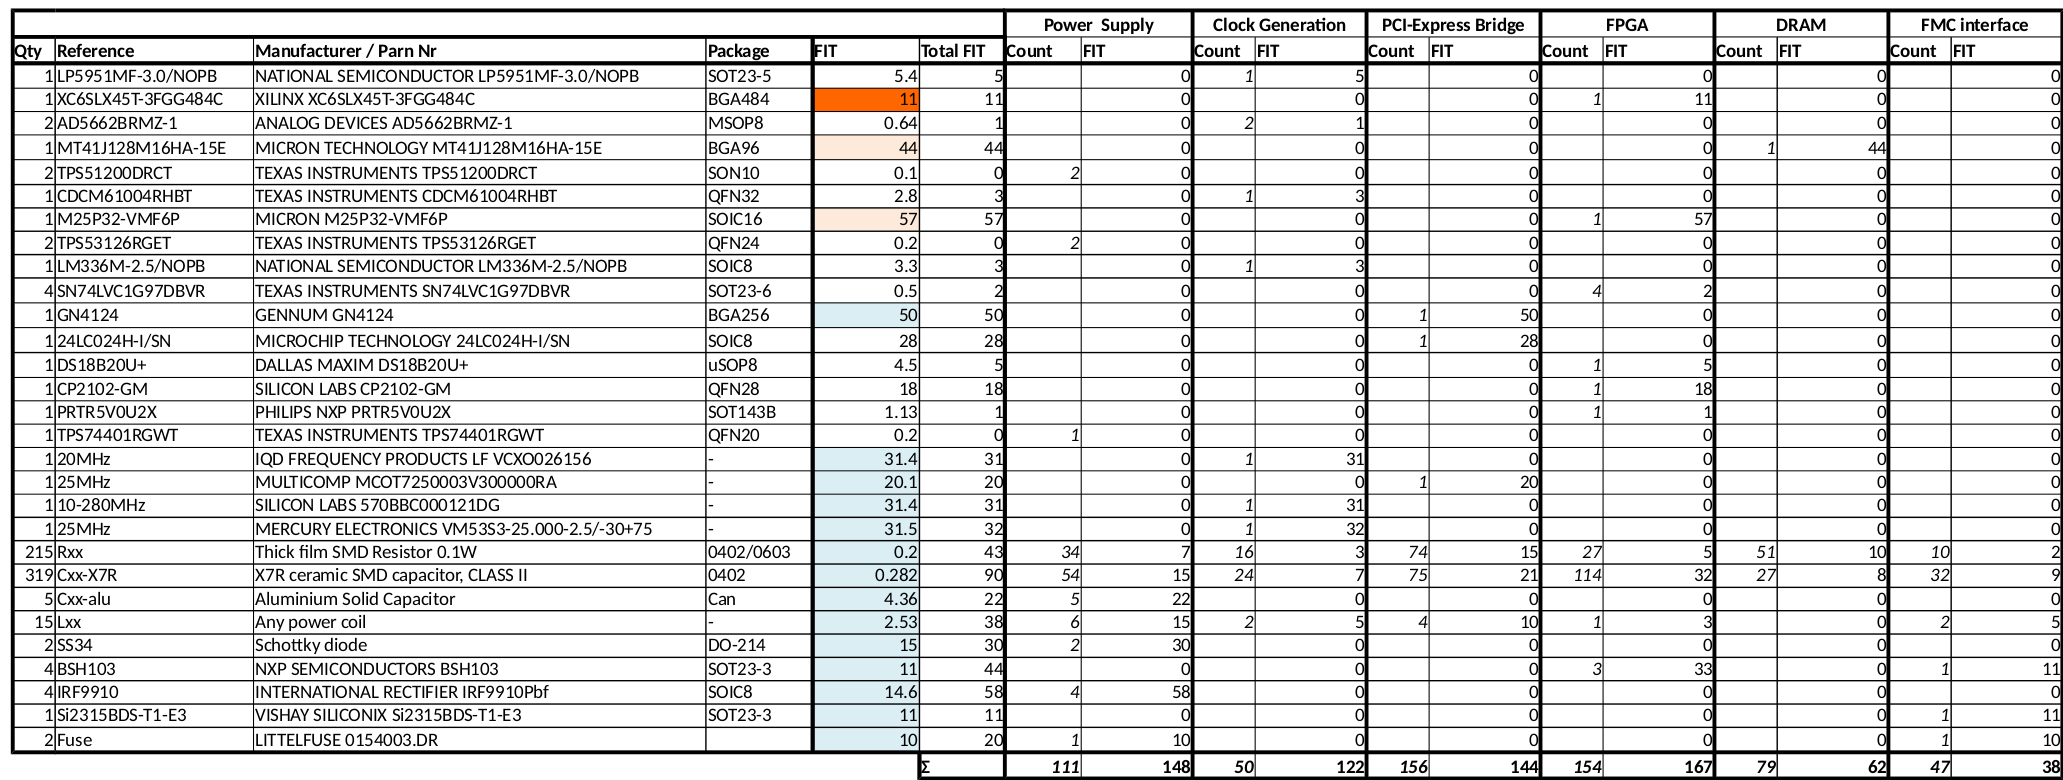
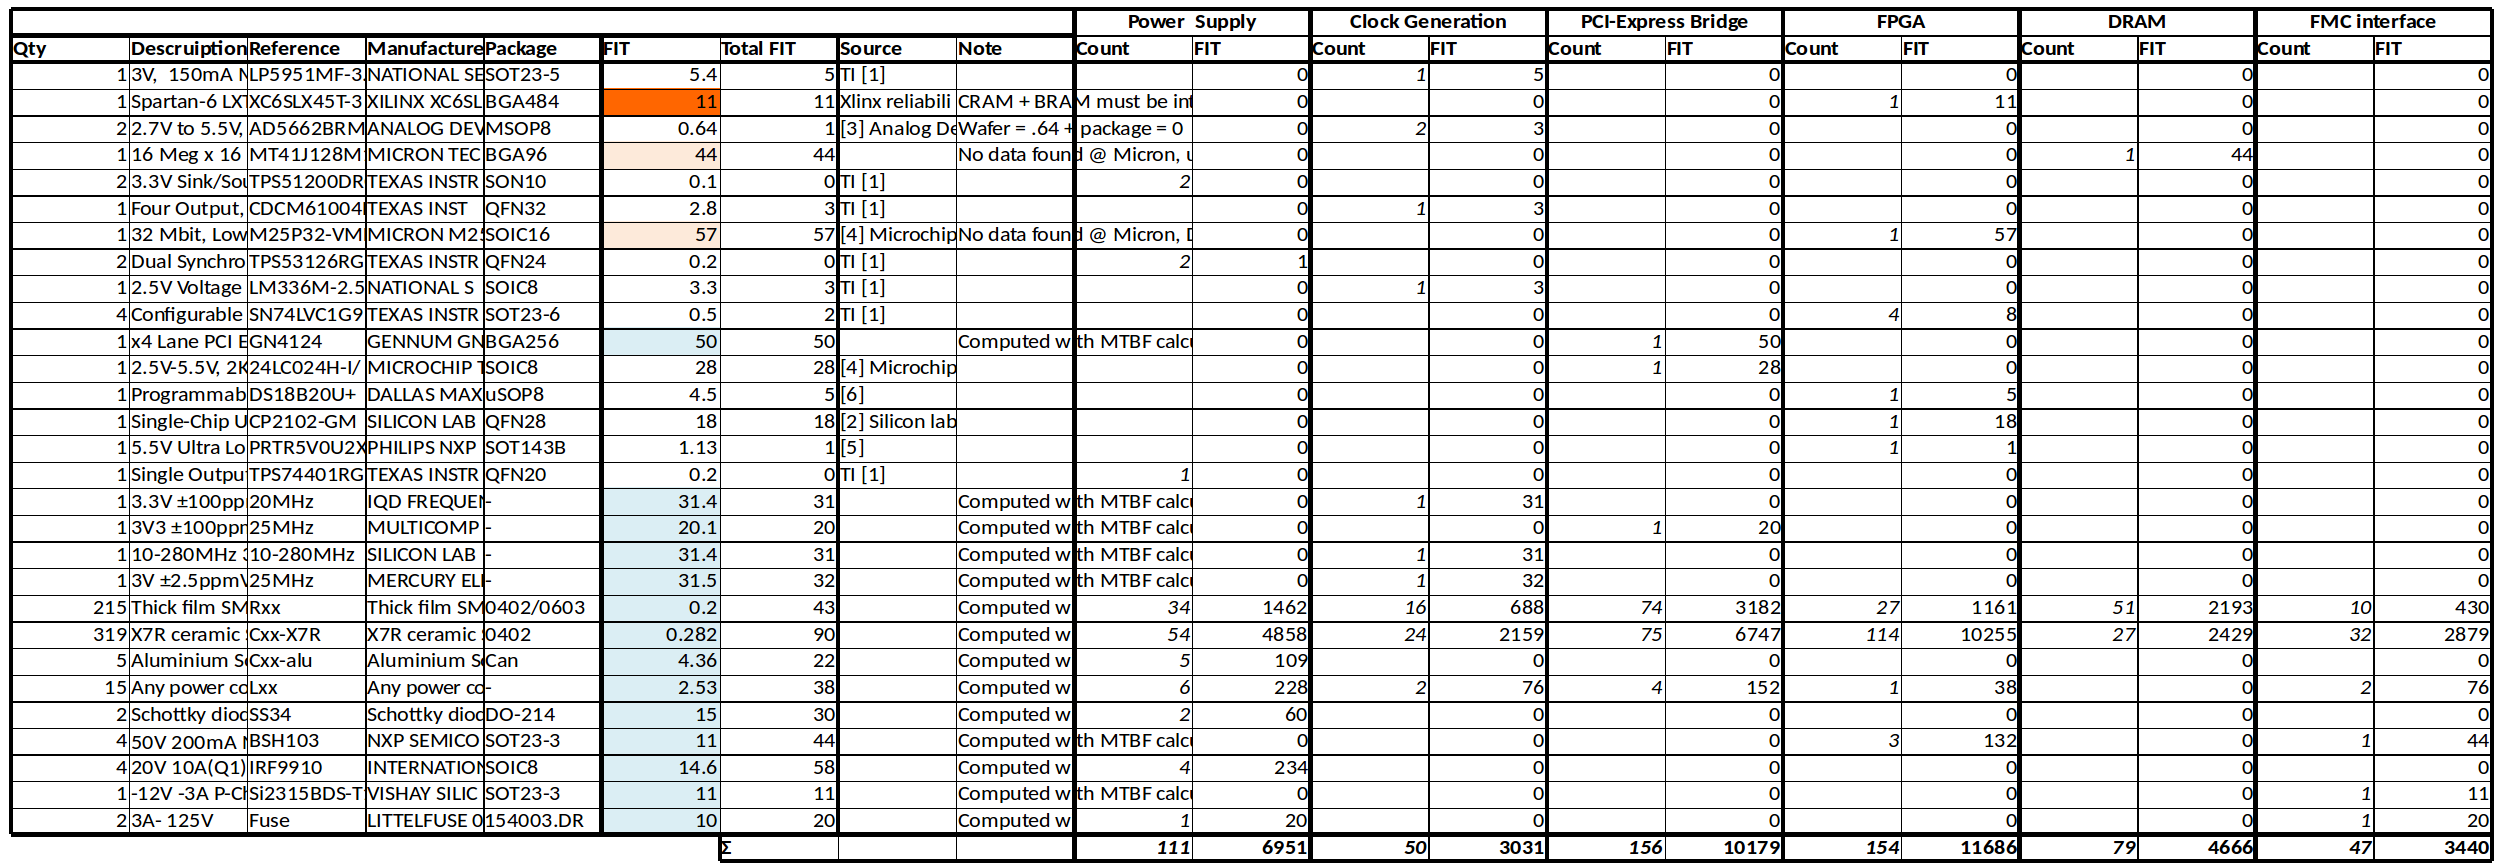
Finished. Need review and spell-check !

diff --git a/conf.py b/conf.py
@@ -31,7 +31,7 @@ import sphinx_rtd_theme
 # Add any Sphinx extension module names here, as strings. They can be
 # extensions coming with Sphinx (named 'sphinx.ext.*') or your custom
 # ones.
-extensions = ['sphinx.ext.imgmath',]# 'sphinxcontrib.exceltable']
+extensions = ['sphinx.ext.imgmath']  # , 'sphinxcontrib.exceltable']
 
 # Add any paths that contain templates here, relative to this directory.
 templates_path = ['_templates']
@@ -76,7 +76,8 @@ pygments_style = 'sphinx'
 
 # If true, `todo` and `todoList` produce output, else they produce nothing.
 todo_include_todos = False
-
+# Enable to reference figures
+numfig = True
 
 # -- Options for HTML output ----------------------------------------------
 

diff --git a/analysis.rst b/analysis.rst
@@ -12,7 +12,8 @@ Per-component failure rate
 
 The following table gives the Failure rate for each component type in the circuit:
 
-.. .. image:: img/FIT_table.png
+.. image:: img/FIT-per-type.png
+    :scale: 70 %
 
 Most FITS for the ICs have been taken from manufacturer data. In the table, the cell in orange have been determinted by annalogy, cell in blue where computed using the "MTBF calculator" This has been done for two IC. Both IC (MT41J128M16HA-15E and M25P32-VMF6P) are manufactured by *Micron Technology* that provides no reliabilty data.
 
@@ -24,20 +25,108 @@ The **GENNUM GN4124** i is a PCI-Express to local bus bridge. The manufacture (*
 
 Other Pasive and discret component FITs have been computed using the *MTBF calculator* program. When using this program, it is important to choose the **IEC-62380** predicition model to set the appropriate norm and the **GF** mission profile. GF mission profile stand from "Ground Fix". As our circuit is a PC card, this seems to be the appropiate profile. 
 
+The figure :numref:`fit-dist` gives an overview of the FIT distribution over the various component types. We can see that for this circuit, the ICs are the larger contributors.
 
-.. image:: img/FR_dist_by_type.png
+.. _fit-dist:
+.. figure:: img/FR_dist_by_type.png
+    :scale: 75 %
+    :alt: FIT distribution
+    
+    FIT distribution over component types.
+    
+Not that for the passive components, only the technology and package have influence on the failure rate. Component value have no influence. As this board is only populated with think film SMD resitance, it is only necessary to make the computation once and use the same value for all resistors. They are two type of capcaitor on this board, Aluminum solid electrolitic and X7R ceramic capacitor. So there is only two FIT to compute for the capacitors. All inductor are power inductor and share alos the same reliablity. 
+
+For the discrete component, desing paramameters (rated current, power, etc...) and pacakge are taken into account. So there is one calculation to do for each part number.
 
 
 Per-block failure rate
 ----------------------
 
-.. image:: img/FR_dist_by_func.png
+To compute the per-block FITs, all component have been assosicated with the appropirate block. As passive components (R, L and C) have same reliabilty, it is easyer to count the component per block (count the number of resistor, capacitor and inductors in each block). This process can be done using a spread sheet and inducating the number of each component type in each block. Of corse fcomponent that apears only once in the BOM like the FPGA are only counted in one block, but this is a generic process. Then the FIT for the component type is multiplied with the component count for the block. This gives the contribution of the component type to the block reliablity. All thos contribution are summed to compute the FIT for the block. This process leads to the following table:
+
+.. image:: img/FIT_table.png
+
+The result of this calcualtion can be summarized in the following table:
+
++--------------------+-------------+
+| Block              | Reliability |
++====================+=============+
+| Power  Supply	     |  148 FIT    |
++--------------------+-------------+
+| Clock Generation   |  122 FIT    |
++--------------------+-------------+
+| PCI-Express Bridge |	144 FIT    |
++--------------------+-------------+
+| FPGA	             |  167 FIT    |
++--------------------+-------------+
+| DRAM	             |   62 FIT    |
++--------------------+-------------+
+| FMC interface	     |   38 FIT    |
++--------------------+-------------+
+
+Represeneted in a graphics, this gives the :numref:`fr_by_block`. This figure shows that the larger contriubtor is the FPGA block, manly because all the large amount of decoupling capacitors. Then comes the Power supply equals with the PCI-Express brindge block.
+
+.. _fr_by_block:
+.. figure:: img/FR_dist_by_func.png
+    :scale: 70%
+
+    Failure rate distribution by block.
+    
 
 Circuit failure rate
 --------------------
 
+As all block are necessary for the circuit proper function, the circuit failure rate is simply computed by summing the FIT from all blocks:
+
++--------------------+-------------+
+| Block              | Reliability |
++====================+=============+
+| Power  Supply	     |  148 FIT    |
++--------------------+-------------+
+| Clock Generation   |  122 FIT    |
++--------------------+-------------+
+| PCI-Express Bridge |	144 FIT    |
++--------------------+-------------+
+| FPGA	             |  167 FIT    |
++--------------------+-------------+
+| DRAM	             |   62 FIT    |
++--------------------+-------------+
+| FMC interface	     |   38 FIT    |
++--------------------+-------------+
+| **Total**          | **681 FIT** |
++--------------------+-------------+
+| **MTBF**           | **168 Year**|
++--------------------+-------------+
+
+So the whole circuit have 681 FIT, this is equivalent to a MTBF of 1468230 hours which is aproximalty 168 years. 
+
+**Note**** that this calculation does not take into account the reliablity of the bare PCB and the connections (solders). This is beacause those data were unknonw.
+
+Using the exponential law, we can compute the following relations:
+
++----------+---------------------+
+| Time     | Survival population |
++==========+=====================+
+| 10 ans   | 94.2%               |
++----------+---------------------+
+| 30 ans   | 83.6%               | 
++----------+---------------------+
+| 50 ans   | 74.2%               |
++----------+---------------------+
+| 100 ans  | 55%                 |
++----------+---------------------+
+| ~18 ans  | 90%                 |
++----------+---------------------+
+| 116 ans  | 50%                 |
++----------+---------------------+
+| 773 ans  | 10%                 |
++----------+---------------------+
+
 
 Conclusion
 ==========
+
+This project was a simple exmple to show the process of computing a electronic circuit card reliablity. But already, it shows all the difficulties and the problems linked to it, getting thurstable manufacturer data for example.
+
 
 

diff --git a/background.rst b/background.rst
@@ -29,22 +29,38 @@ This norm gives equation to computes the failure rate in FITs of all component e
 
 The norm start by giving the equation to compute the FITs for an assembled PCB:
 
-.. image:: img/IEC-62380-6.1.png
+.. figure:: img/IEC-62380-6.1.png
+    :scale: 75%
+    :alt: FIT equation for assembled PCB
+    
+    IEC-62380 equation to compute FIT for an assembled PCB.
 
 This tells that the the failure rate of the assebled PCB is the failure rate of the components an connections (**A** in the equations) plus the failure rate of the bare PCB (**B** in the equation).
 
 Then the norm gives the equation to compute the failure rate of the bare PCB as follow:
 
-.. image:: img/IEC-62380-B.png
+.. figure:: img/IEC-62380-B.png
+    :scale: 75%
+    :alt: FIT equation for bare PCB
+    
+    IEC-62380 equation to compute FIT for a bare PCB.
 
 And the failure rate of components and connections:
 
-.. image:: img/IEC-62380-A.png
+.. figure:: img/IEC-62380-A.png
+    :scale: 75%
+    :alt: FIT equation for assembled PCB
+    
+    IEC-62380 equation to compute FIT for an components and connections.
 
 
 The norms then gives equation to compute the failure rate of all different components that one can find on a PCB board (transistors, diodes, passives, ICs, etc..). Here after is an example for a low power transistor:
 
-.. image:: img/IEC-62380-8.4.png
+.. figure:: img/IEC-62380-8.4.png
+    :scale: 75%
+    :alt: FIT equation for low power transistor
+    
+    IEC-62380 equation to compute FIT for a low power transistor.
 
 This norms can guide the reliabilty engineer to manualy calculate the reliability of the designed PCB cuircuit. However, we can see that the aboves equations are faireley complicated. Such a manual calculation can take some time. Luckly, there the "MTBF calculator by ALD" can help. This program use all the equations given in the norm to compute the MTBF for all component type for all majors norms. This program is available as a freeware at http://aldservice.com/Reliability-Software/free-mtbf-calculator.html.
 

diff --git a/intro.rst b/intro.rst
@@ -7,11 +7,16 @@ This document describes the reliability analysis done on the "SPEC" card develop
 Circuit overview
 ================
 
-.. image:: img/spec_v1.1_top.JPG
+.. figure:: img/spec_v1.1_top.JPG
+    
+    SPEC V4 board
 
-The proposed Circuit is made of a single PCB. This PCB is a FGPA card meant to be used inside a PC connected trought the PCI-Express (PCIe) bus. The card also offers a FMC connector and SFP interface. FMC stand for "FPGA Mezzanine Connector", it is an open standard that propose standardized between a FPGA board and mezzanine cards. SFP is a generic connector for cooper and fiber based Ethernet. The following picture is an example of FMC mezzanine cards:
+The proposed Circuit (SPEC V4) is made of a single PCB. This PCB is a FGPA card meant to be used inside a PC connected trought the PCI-Express (PCIe) bus. The card also offers a FMC connector and SFP interface. FMC stand for "FPGA Mezzanine Connector", it is an open standard that propose standardized between a FPGA board and mezzanine cards. SFP is a generic connector for cooper and fiber based Ethernet. The :numref:`fmc-mez-example` is an example of FMC mezzanine cards:
 
-.. image:: img/UMFT601X.jpg
+.. _fmc-mez-example:
+.. figure:: img/UMFT601X.jpg
+    
+    FMC mezzanine card example
 
 This card can be also utilized stand-alone thanks to a power connector, USB to serial brige and USB JTAG interface.
 
@@ -32,7 +37,11 @@ PSU
 Clock Generation
   Quartz, ocillator and clock distributions ICs.
   
-From this, the following block scheme can be drawn:
+From this, the block diagram from :numref:`block-diagram` can be drawn:
 
-.. image:: img/Block_diagram.png
+.. _block-diagram:
+.. figure:: img/Block_diagram.png
+    :alt: Block diagram.
+    
+    SPEC v4 Bloack diagram.
 
